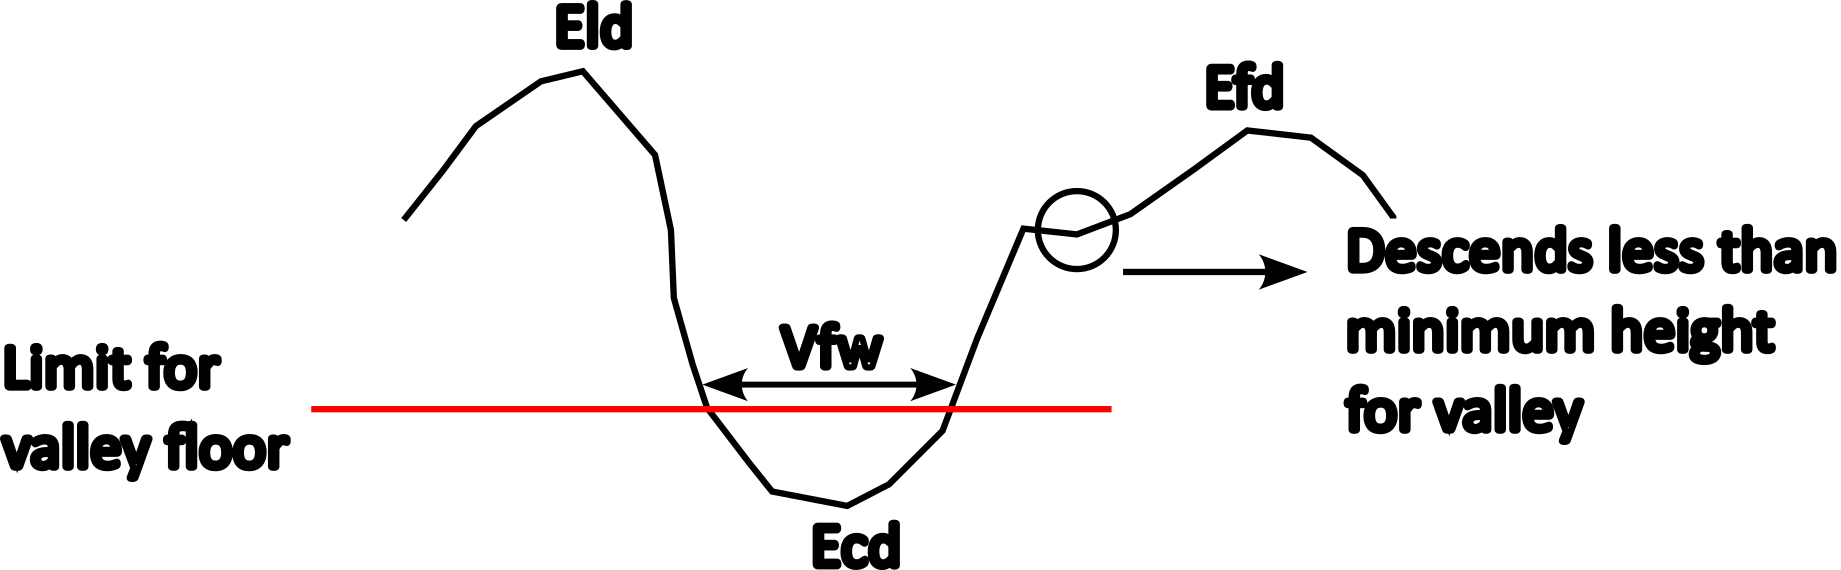
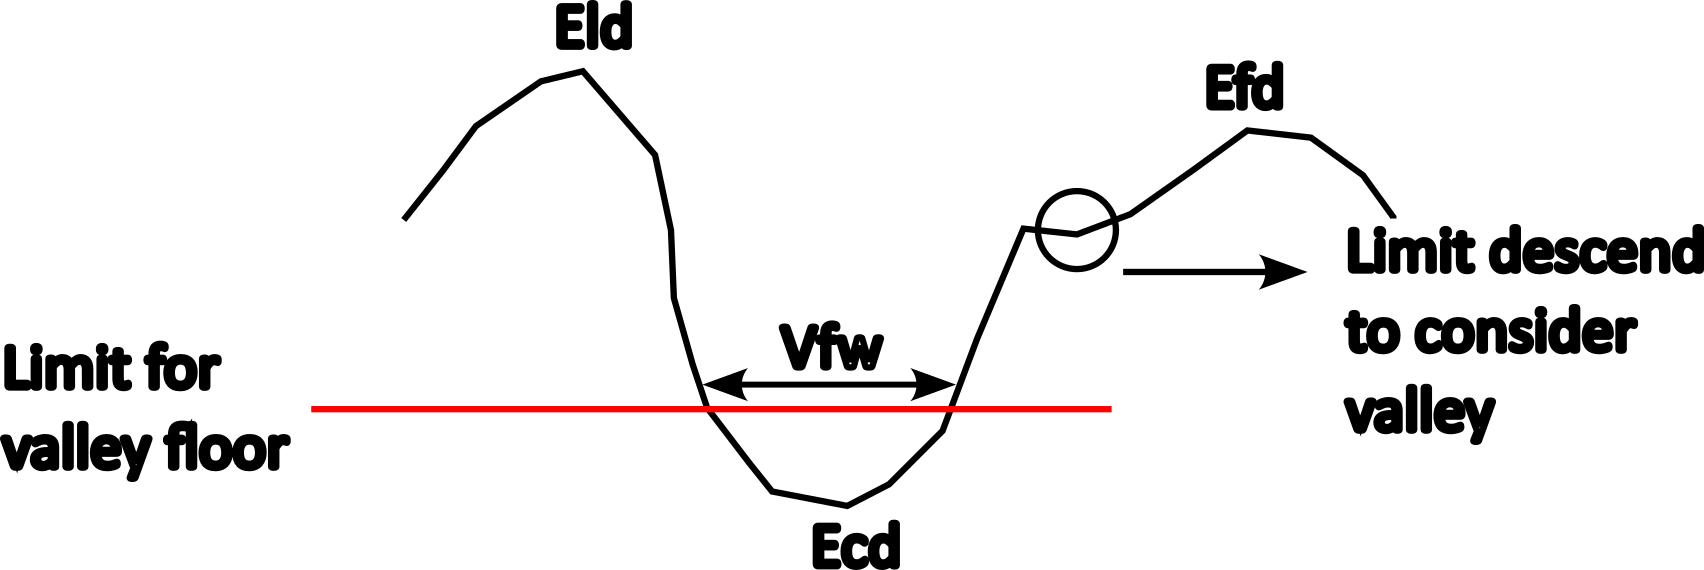
docs: corrected information in someExplanations

diff --git a/someExplanations.md b/someExplanations.md
@@ -1,22 +1,15 @@
 # Some explanations
 Here I will give some explanitions of things that maybe aren't so obvious for who will use the plugin.
 
-## Channel coordinate precision and minimum channel length
-Sometimes in the processing of intersections, because the decimals of coordinates and imperfections in the generation of drainage networks/basins.  
-
-The intersection cuts and can split a line into multiple lines (resolved by snap coordinate), or micro-segments of a line belonging to one basin may be cut off and appear in the neighboring basin (resolved by minimum coordinate length).
-
-![Channel coordinate precision and minimum channel length use example](imagesSomeExplanations/minsnap.png)
-
 ## Limit valley floor and minimum height valley
-The "valley floor limit" is the height above the drainage channel below which the area is considered the "floor," while the "minimum relief for valley height" represents the minimum relief drop required to determine the Eld or Efd (the algorithm selects the last point before the terrain "descends"—a minimum slope threshold is established so that minor dips are not mistaken for summits).
+The "valley floor limit" is the height above the drainage channel below which the area is considered the "floor," while the "Limit descend to consider valley" represents the minimum relief drop required to determine the Eld or Efd (the algorithm selects the last point before the terrain "descends"—a minimum slope threshold is established so that minor dips are not mistaken for summits). Additionally, If (Eld - Ecd) or (Efd - Ecd) is less than minimum height for valley peak input, the valley is discarded.
 
 ![Channel coordinate precision and minimum channel length use example](imagesSomeExplanations/vf.png)
 
 ## Transverse topographic symmetric factor and valley floor width to valley height ratio
 
 For the TTSF, lines perpendicular to the midline are generated (spanning 10% to 90% of the midline length to minimize errors associated with the endpoints); the user defines the number of points where these perpendicular lines are created. If a perpendicular line fails to intersect the drainage line, it is discarded.  
-A similar process applies to the valley floor-to-valley height calculation: a line perpendicular to the drainage line is generated (spanning 10% to 90% of the drainage length), and the cross-section is discarded if the Eld or Erd value equals the Ecd value.
+A similar process applies to the valley floor-to-valley height calculation: a line perpendicular to the drainage line is generated (spanning 10% to 90% of the drainage length).
 
 ## Main channel or longest channel?
 
